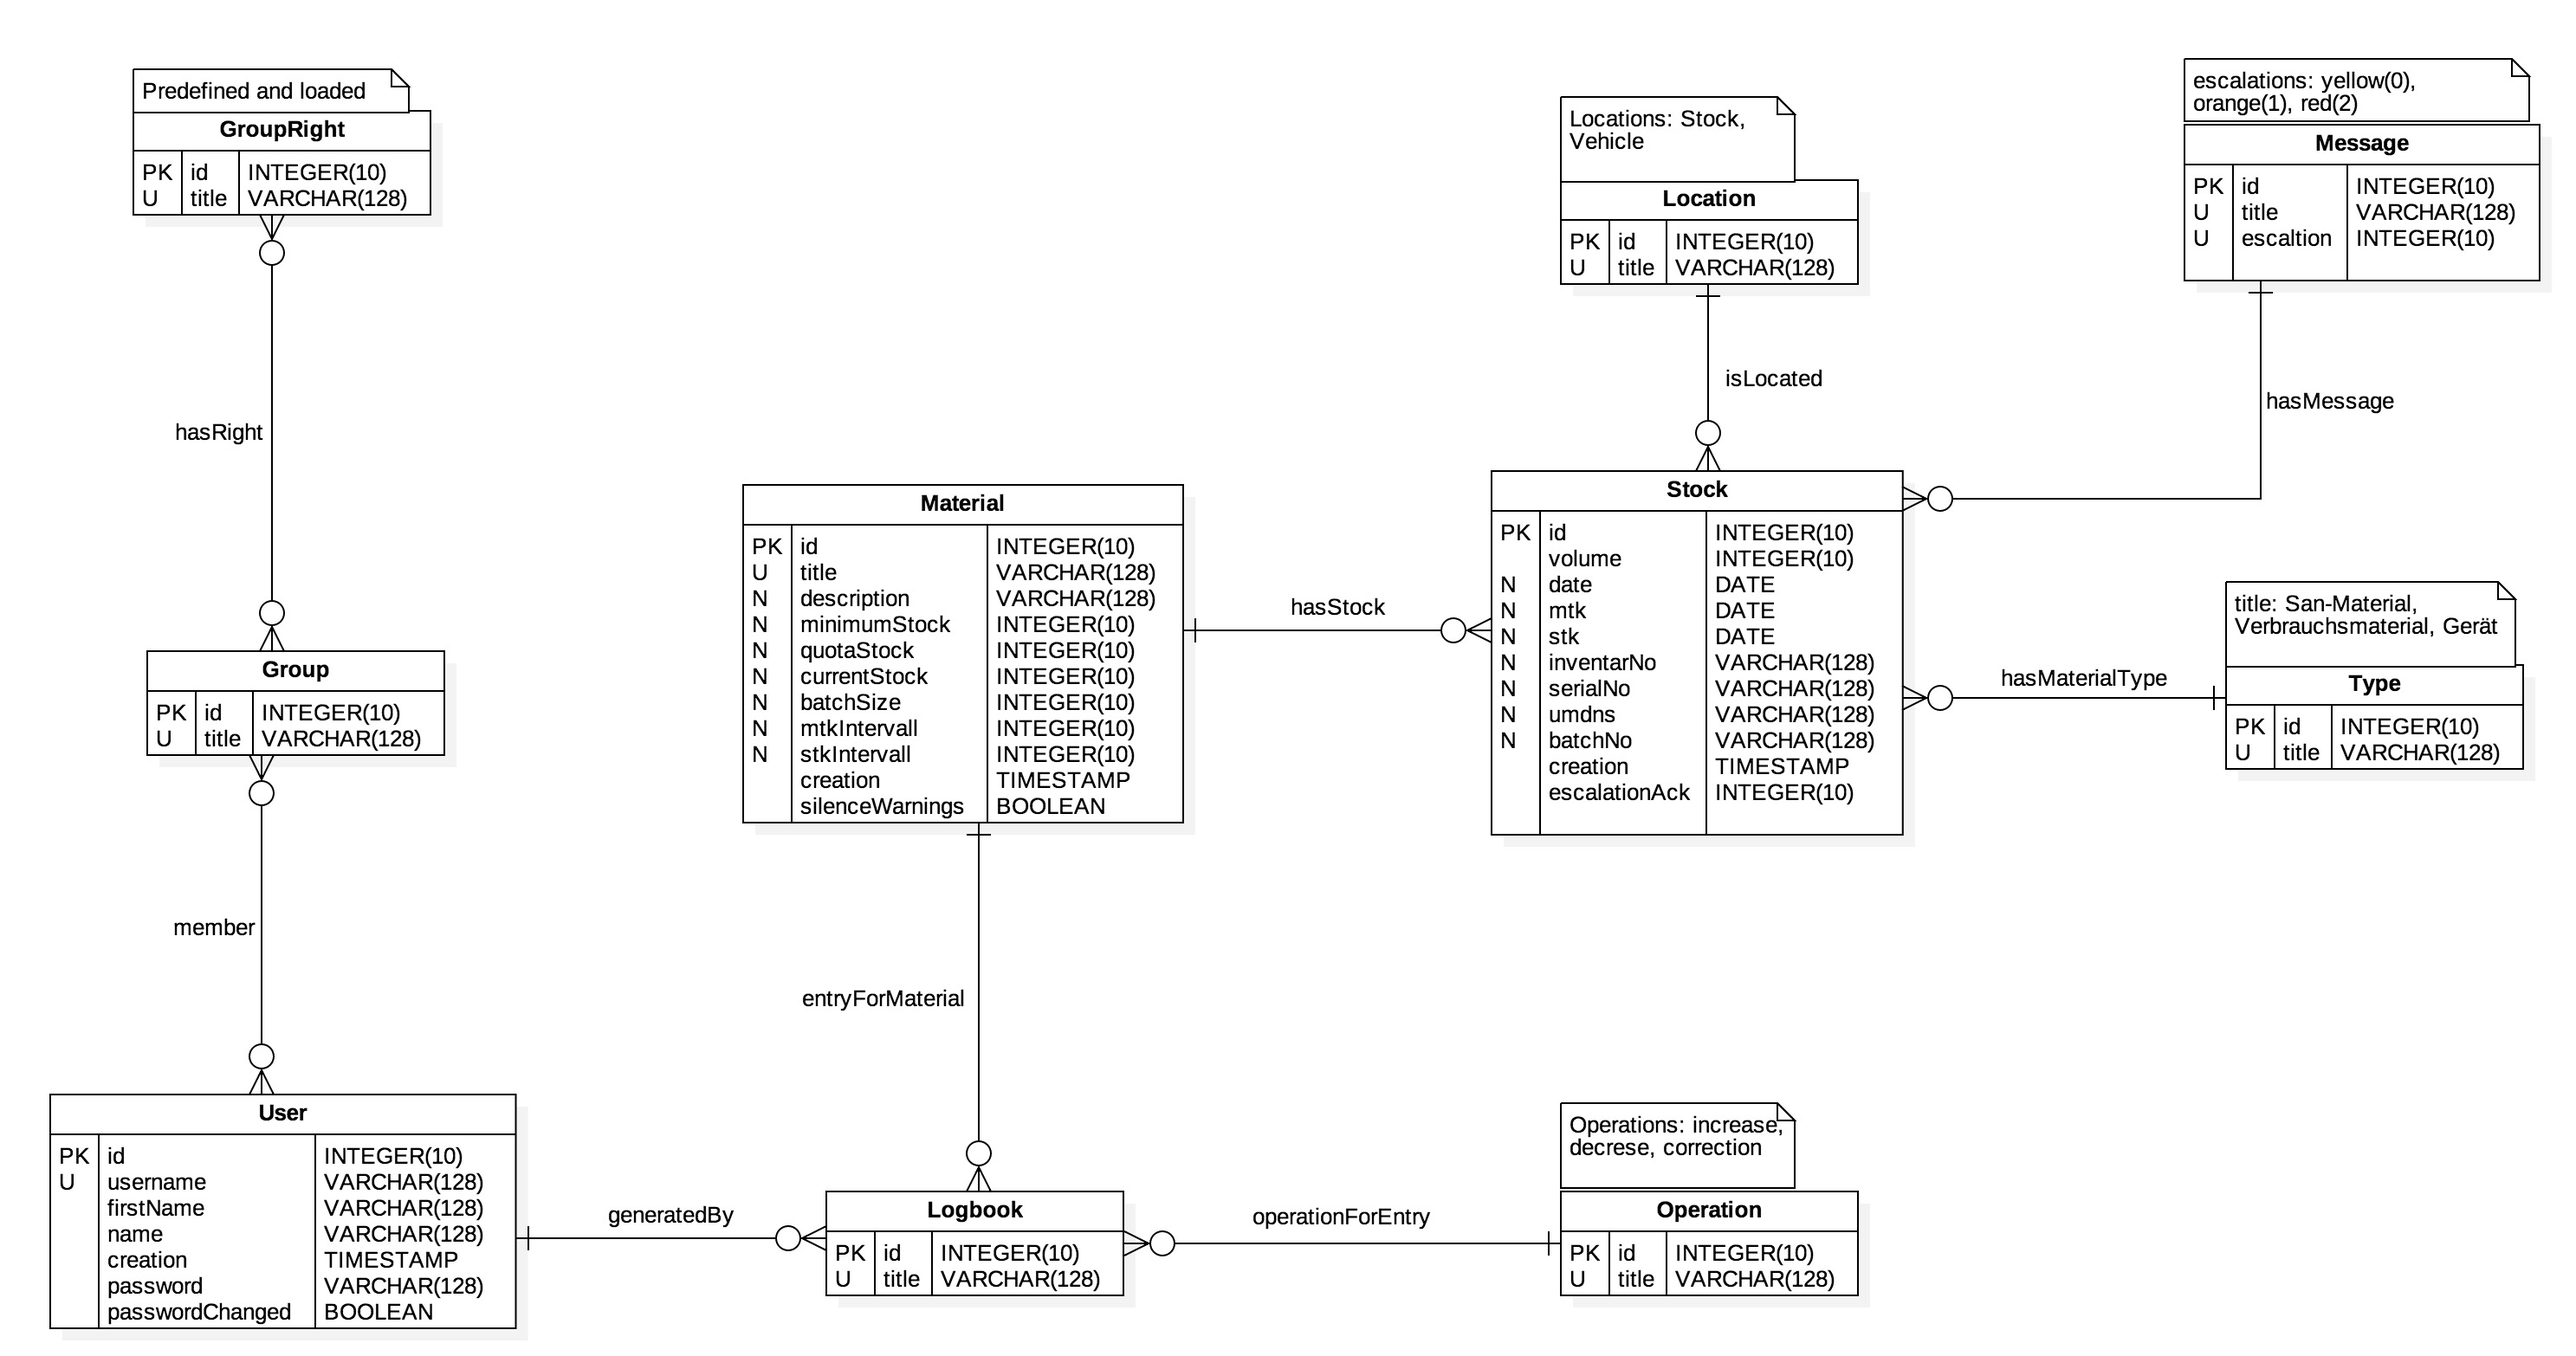
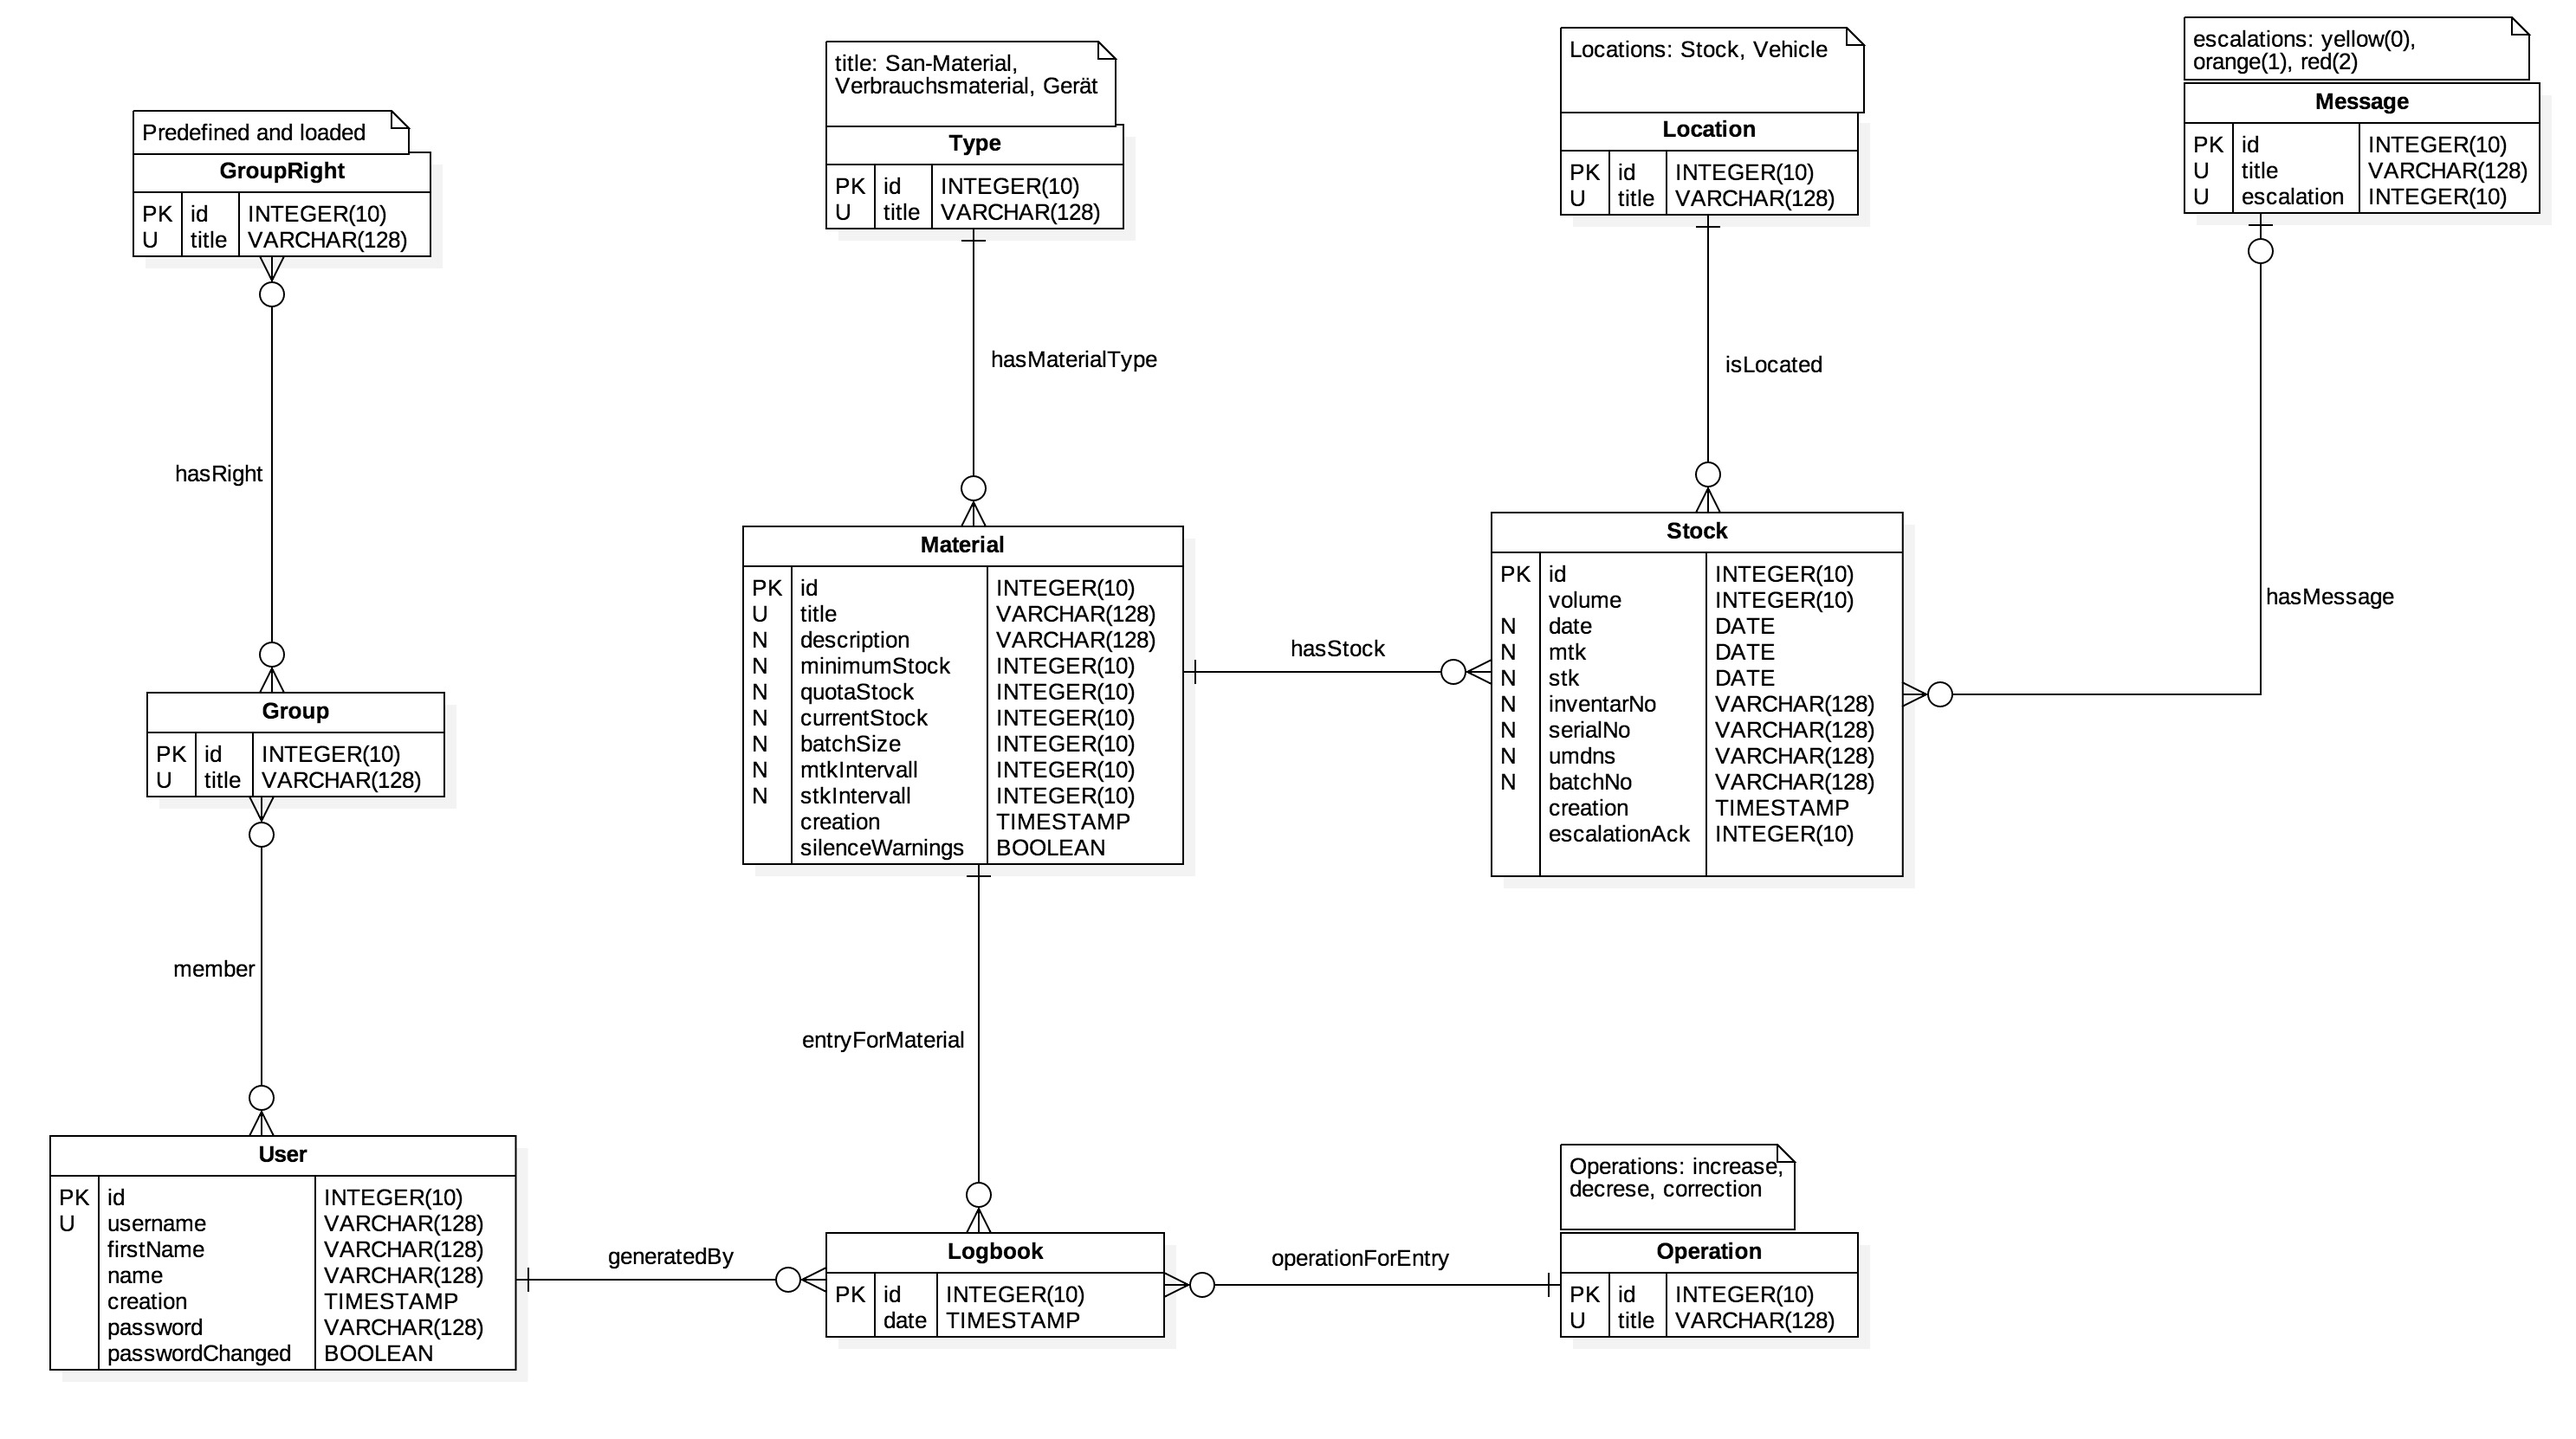
ER-Model angepasst

diff --git a/modellierung/sql.md b/modellierung/sql.md
@@ -147,6 +147,7 @@ CREATE TABLE `Operation` (
 CREATE TABLE `Logbook` (
     `id` int(10) unsigned NOT NULL AUTO_INCREMENT PRIMARY KEY,
     `title` varchar(128) COLLATE 'latin1_german2_ci' NOT NULL UNIQUE,
+    `date` TIMESTAMP NOT NULL,
     `material_id` int(10) unsigned NULL,
     `operation_id` int(10) unsigned NOT NULL,
     `user_id` int(10) unsigned NOT NULL
